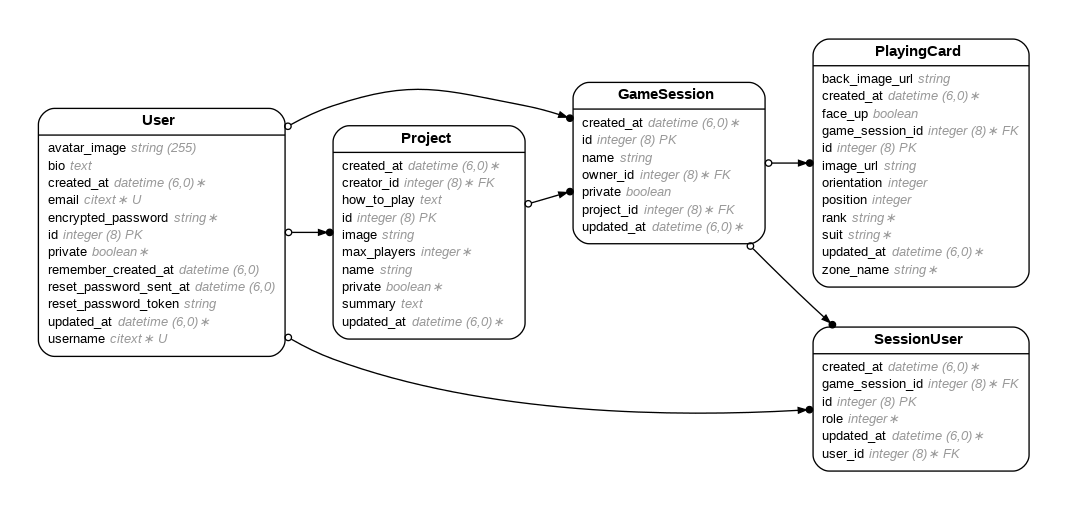
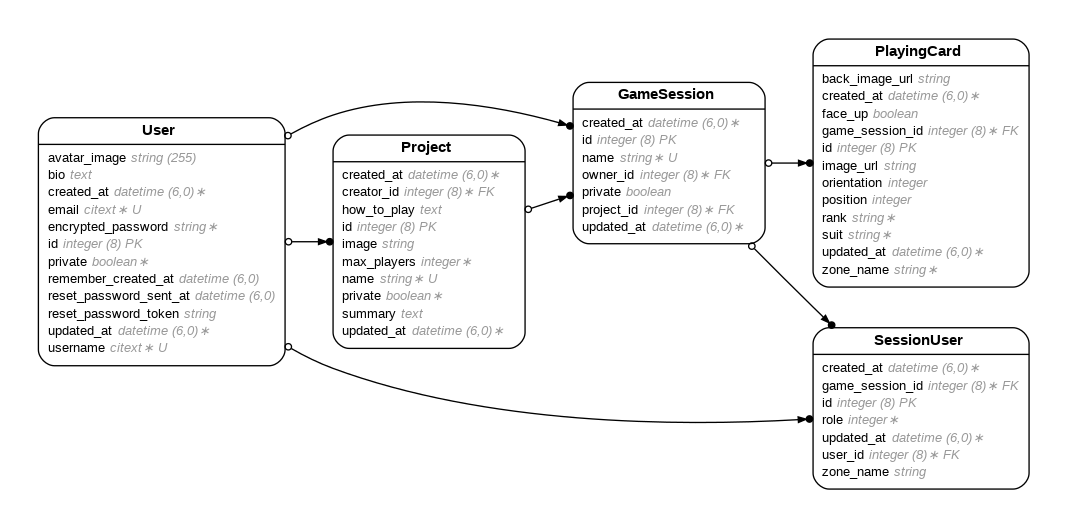
Added session user zones. Still ironing our player_zone authorizations.

Changed region(s): [[0.0309, 0.1471, 0.7423, 0.7353], [0.433, 0.0588, 0.9897, 0.9412], [0.3711, 0.7353, 0.433, 0.7647]]

diff --git a/app/assets/stylesheets/application.css b/app/assets/stylesheets/application.css
@@ -53,6 +53,27 @@
   z-index: 10;
 }
 
+/* Ensure grid wraps properly even with absolute card controls */
+.zone-grid {
+  display: grid;
+  grid-template-columns: repeat(auto-fill, minmax(120px, 1fr));
+  gap: 1.5rem; /* adjust spacing as needed */
+}
+
+.card-slot {
+  position: relative;
+  width: 120px;
+  height: 180px;
+  overflow: visible; /* allows peek and controls to float outside */
+}
+
+/* Optional: visually indicate disabled cards */
+.disabled-card {
+  opacity: 0.5;
+  pointer-events: none; /* prevents clicks */
+}
+
+
 /* Hover Over */
 .playing-card:hover .card-controls {
   opacity: 1;

diff --git a/app/controllers/playing_cards_controller.rb b/app/controllers/playing_cards_controller.rb
@@ -1,5 +1,6 @@
 class PlayingCardsController < ApplicationController
   before_action :set_card, only: [:flip, :move, :rotate]
+  before_action :authorize_zone_action!, only: [:flip, :move, :rotate]
 
   def flip
     @card.update!(face_up: params[:face_up])
@@ -12,17 +13,14 @@ class PlayingCardsController < ApplicationController
   end
 
   def rotate
-    card = PlayingCard.find(params[:id])
-
-    card.orientation = case params[:direction]
-      when "cw" then card.orientation_cw
-      when "ccw" then card.orientation_ccw
-      else card.orientation
+    @card.orientation = case params[:direction]
+      when "cw" then @card.orientation_cw
+      when "ccw" then @card.orientation_ccw
+      else @card.orientation
       end
 
-    card.save!
-
-    redirect_back fallback_location: project_path(card.game_session.project)
+    @card.save!
+    redirect_back fallback_location: game_session_path(@card.game_session)
   end
 
   # PATCH /game_sessions/:game_session_id/playing_cards/shuffle
@@ -30,16 +28,28 @@ class PlayingCardsController < ApplicationController
     game_session = GameSession.find(params[:game_session_id])
     zone_name = params[:zone_name]
 
-    deck_service = DeckService.new(game_session, template_source: StandardDeckTemplate.new)
-    deck_service.shuffle!(zone_name: zone_name)
+    session_user = game_session.session_users.find_by(user: current_user)
+
+    unless session_user&.host? ||
+           (session_user.player? && session_user.zone_name == zone_name)
+      return redirect_back fallback_location: game_session_path(game_session),
+                           alert: "You cannot shuffle this zone."
+    end
+
+    DeckService.new(game_session, template_source: StandardDeckTemplate.new)
+               .shuffle!(zone_name: zone_name)
 
     redirect_back fallback_location: game_session_path(game_session),
-                  notice: "Shuffled #{zone_name} zone."
+                  notice: "Shuffled #{zone_name}."
   end
 
   private
 
   def set_card
     @card = PlayingCard.find(params[:id])
+  end
+
+  def authorize_zone_action!
+    authorize_card_zone!(@card)
   end
 end

diff --git a/app/controllers/game_sessions_controller.rb b/app/controllers/game_sessions_controller.rb
@@ -7,15 +7,23 @@ class GameSessionsController < ApplicationController
   def join_as_player
     session_user = @game_session.session_users.find_or_initialize_by(user: current_user)
     session_user.role = :player
+
+    # Assign first unassigned player zone if not set
+    if session_user.zone_name.blank?
+      assigned_zones = @game_session.session_users.where.not(zone_name: nil).pluck(:zone_name)
+      available_zones = PlayingCard::ZONES - ["Neutral"] - assigned_zones
+      session_user.zone_name = available_zones.first
+    end
+
     session_user.save!
     redirect_to @game_session, notice: "You joined the session."
-    # redirect_back(fallback_location: project_path(@game_session.project), notice: "Joined as player.")
   end
 
   # POST /game_sessions/:id/join_as_observer
   def join_as_observer
     session_user = @game_session.session_users.find_or_initialize_by(user: current_user)
     session_user.role = :observer
+    session_user.zone_name = nil
     session_user.save!
     redirect_to @game_session, notice: "You joined the session."
     # redirect_back(fallback_location: project_path(@game_session.project), notice: "Joined as observer.")

diff --git a/db/schema.rb b/db/schema.rb
@@ -10,7 +10,7 @@
 #
 # It's strongly recommended that you check this file into your version control system.
 
-ActiveRecord::Schema[8.0].define(version: 2026_01_19_200309) do
+ActiveRecord::Schema[8.0].define(version: 2026_01_25_011606) do
   # These are extensions that must be enabled in order to support this database
   enable_extension "citext"
   enable_extension "pg_catalog.plpgsql"
@@ -61,6 +61,7 @@ ActiveRecord::Schema[8.0].define(version: 2026_01_19_200309) do
     t.integer "role", default: 2, null: false
     t.datetime "created_at", null: false
     t.datetime "updated_at", null: false
+    t.string "zone_name"
     t.index ["game_session_id", "user_id"], name: "index_session_users_on_game_session_id_and_user_id", unique: true
     t.index ["game_session_id"], name: "index_session_users_on_game_session_id"
     t.index ["user_id"], name: "index_session_users_on_user_id"

diff --git a/app/models/session_user.rb b/app/models/session_user.rb
@@ -3,7 +3,8 @@
 # Table name: session_users
 #
 #  id              :bigint           not null, primary key
-#  role            :integer          default(2), not null
+#  role            :integer          default("observer"), not null
+#  zone_name       :string
 #  created_at      :datetime         not null
 #  updated_at      :datetime         not null
 #  game_session_id :bigint           not null
@@ -33,4 +34,11 @@ class SessionUser < ApplicationRecord
   scope :players, -> { where(role: :player) }
   scope :observers, -> { where(role: :observer) }
   scope :for_game_session, ->(game_session_id) { where(game_session_id: game_session_id) }
+
+  def can_interact_with_zone?(zone_name)
+    return true if host?
+    return false unless player?
+
+    zone_name == "Neutral" || zone_name == self.zone_name
+  end
 end

diff --git a/app/controllers/application_controller.rb b/app/controllers/application_controller.rb
@@ -1,4 +1,18 @@
 class ApplicationController < ActionController::Base
   skip_forgery_protection
 
+  def authorize_card_zone!(card)
+    session_user = card.game_session.session_users.find_by(user: current_user)
+
+    raise ActiveRecord::RecordNotFound unless session_user
+
+    allowed =
+      session_user.host? ||
+      (session_user.player? && session_user.zone_name == card.zone_name)
+
+    unless allowed
+      redirect_back fallback_location: game_session_path(card.game_session),
+                    alert: "You are not allowed to interact with cards in this zone."
+    end
+  end
 end

diff --git a/app/models/game_session.rb b/app/models/game_session.rb
@@ -37,6 +37,13 @@ class GameSession < ApplicationRecord
 
   after_create :populate_standard_deck
 
+  MAX_PLAYER_ZONES = ["Player 1", "Player 2", "Player 3", "Player 4"]
+
+  def next_available_player_zone
+    taken = session_users.where.not(zone_name: nil).pluck(:zone_name)
+    MAX_PLAYER_ZONES.find { |zone| !taken.include?(zone) }
+  end
+
   private
 
   def populate_standard_deck

diff --git a/app/helpers/game_sessions_helper.rb b/app/helpers/game_sessions_helper.rb
@@ -1,0 +1,11 @@
+# app/helpers/game_sessions_helper.rb
+module GameSessionsHelper
+  def can_interact_with_card?(card, game_session)
+    return false unless current_user
+
+    session_user = game_session.session_users.find_by(user: current_user)
+    return false unless session_user
+
+    session_user.can_interact_with_zone?(card.zone_name)
+  end
+end

diff --git a/app/models/playing_card.rb b/app/models/playing_card.rb
@@ -6,7 +6,7 @@
 #  back_image_url  :string
 #  face_up         :boolean          default(FALSE)
 #  image_url       :string
-#  orientation     :integer          default(0)
+#  orientation     :integer          default("normal")
 #  position        :integer
 #  rank            :string           not null
 #  suit            :string           not null
